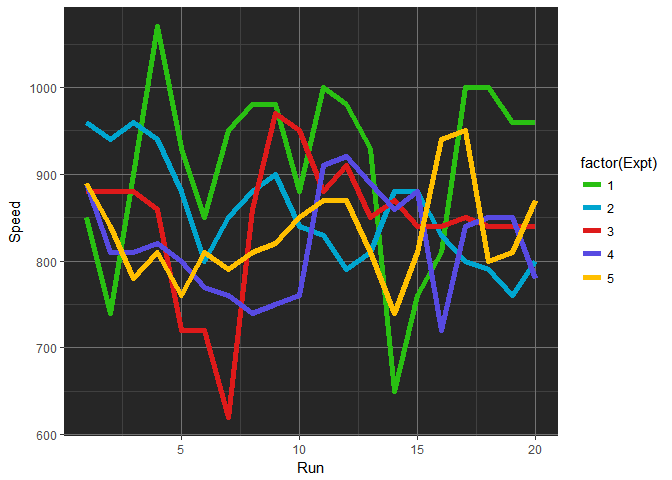
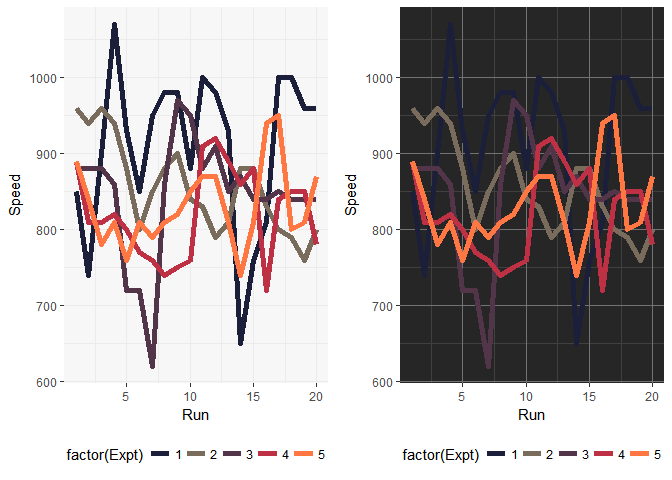
added new palettes, display-all function

diff --git a/README.md b/README.md
@@ -34,6 +34,16 @@ jcolors('default')
 ##       "#F5E400"
 ```
 
+## All available palettes
+
+
+```r
+display_all_jcolors()
+```
+
+![](vignettes/displayall-1.png)<!-- -->
+
+## Use with `ggplot2`
 
 Now use `scale_color_jcolors()` with `ggplot2`:
 
@@ -77,13 +87,6 @@ grid.arrange(pltl + scale_color_jcolors(palette = "pal2"),
 
 ![](vignettes/unnamed-chunk-3-2.png)<!-- -->
 
-```r
-grid.arrange(pltl + scale_color_jcolors(palette = "pal3"),
-             pltd + scale_color_jcolors(palette = "pal3"), ncol = 2)
-```
-
-![](vignettes/unnamed-chunk-3-3.png)<!-- -->
-
 Color palettes can be displayed using `display_jcolors()`
 
 ## default
@@ -110,3 +113,44 @@ display_jcolors("pal3")
 
 ![](vignettes/unnamed-chunk-6-1.png)<!-- -->
 
+## pal4
+
+```r
+display_jcolors("pal4")
+```
+
+![](vignettes/unnamed-chunk-7-1.png)<!-- -->
+
+## pal5
+
+```r
+display_jcolors("pal5")
+```
+
+![](vignettes/unnamed-chunk-8-1.png)<!-- -->
+
+
+
+More example plots
+
+
+```r
+grid.arrange(pltl + scale_color_jcolors(palette = "pal3"),
+             pltd + scale_color_jcolors(palette = "pal3"), ncol = 2)
+```
+
+![](vignettes/moreplots-1.png)<!-- -->
+
+```r
+grid.arrange(pltl + scale_color_jcolors(palette = "pal4"),
+             pltd + scale_color_jcolors(palette = "pal4"), ncol = 2)
+```
+
+![](vignettes/moreplots-2.png)<!-- -->
+
+```r
+grid.arrange(pltl + scale_color_jcolors(palette = "pal5"),
+             pltd + scale_color_jcolors(palette = "pal5"), ncol = 2)
+```
+
+![](vignettes/moreplots-3.png)<!-- -->
